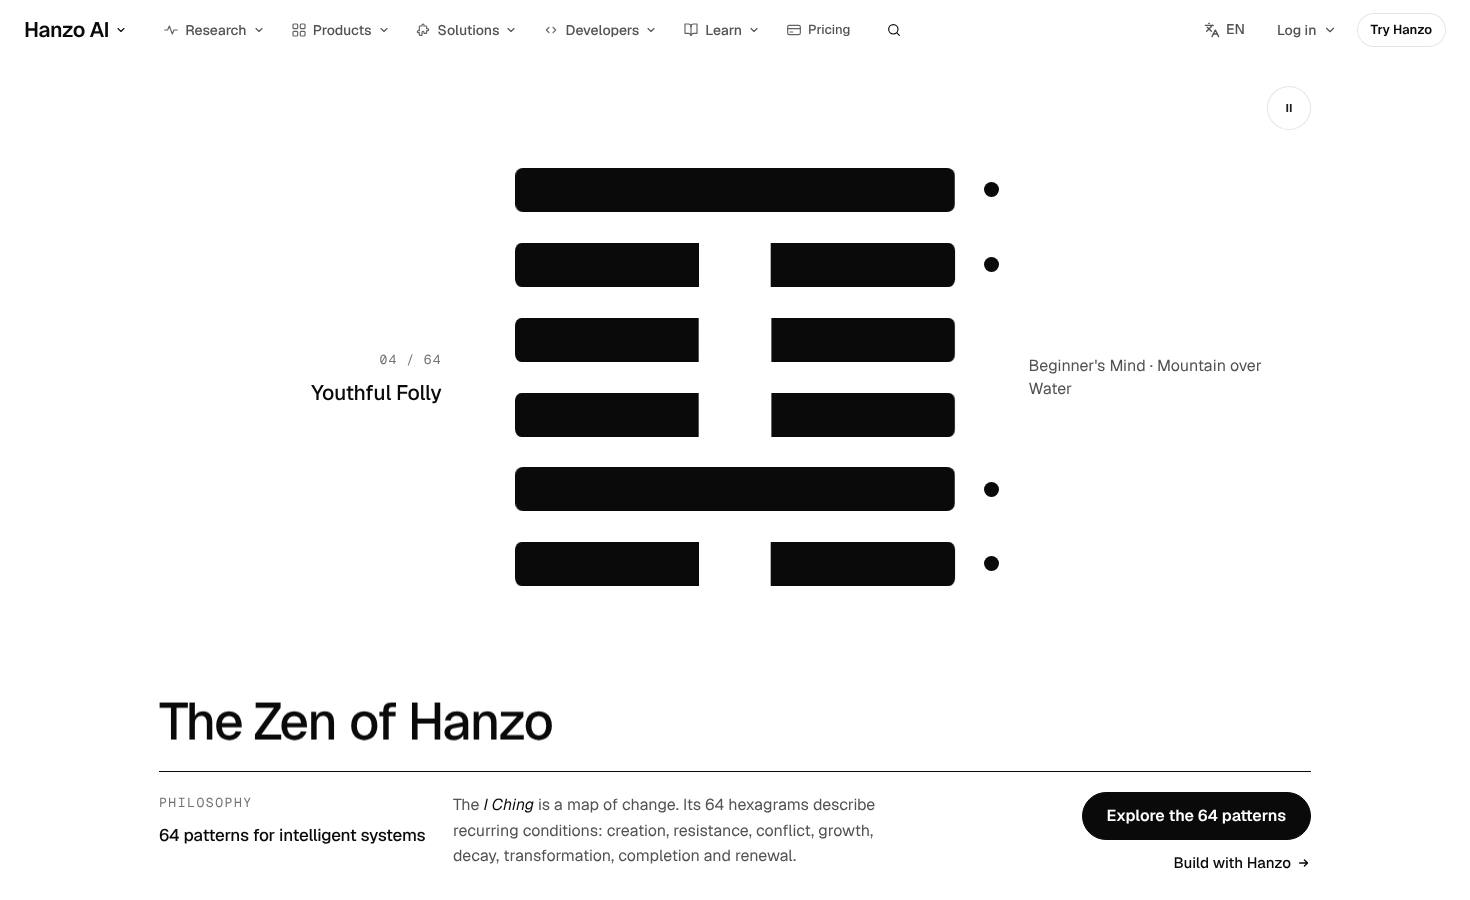
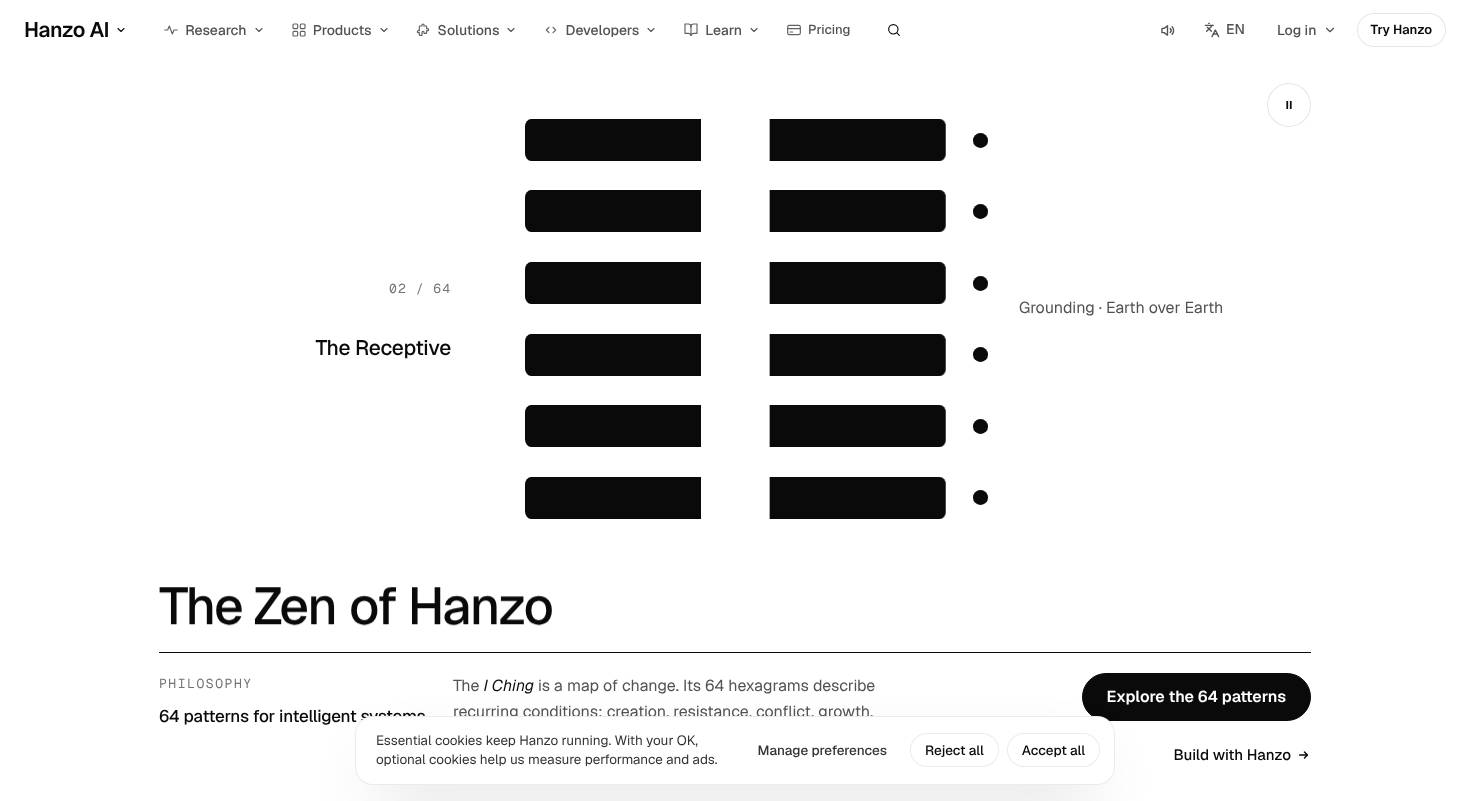
philosophy: arrival on CSS from first paint, Sequence names whole to 320px, card corrected, Ready
Claude-Session: https://claude.ai/code/session_01P5YBdwnSSVASfNEEi92hQ4

diff --git a/components/pages/Philosophy.css b/components/pages/Philosophy.css
@@ -39,6 +39,16 @@ button.xph-hl:focus-visible { outline: 2px solid var(--ink); outline-offset: 6px
 .xph-flank.l b { justify-content: flex-end; }
 .xph-flank.r span { min-height: 2.9em; }
 .xph-h1 { margin: 0; }
+/* arrival without JavaScript: the h1 cuts into its line and the hexagram draws itself bottom to top at first paint */
+@keyframes xph-cut { from { transform: translate3d(0, 105%, 0); } }
+.xph-cut { animation: xph-cut .7s cubic-bezier(.16, 1, .3, 1) calc(.15s + var(--d, 0ms)) backwards; }
+@keyframes xph-draw { from { transform: scaleX(.2); opacity: 0; } }
+.xph-oracle-hx .xph-hl { animation: xph-draw .8s cubic-bezier(.4, 0, .2, 1) backwards; }
+.xph-oracle-hx .xph-hl:nth-child(2) { animation-delay: 70ms; }
+.xph-oracle-hx .xph-hl:nth-child(3) { animation-delay: 140ms; }
+.xph-oracle-hx .xph-hl:nth-child(4) { animation-delay: 210ms; }
+.xph-oracle-hx .xph-hl:nth-child(5) { animation-delay: 280ms; }
+.xph-oracle-hx .xph-hl:nth-child(6) { animation-delay: 350ms; }
 .xph-h1 .pf-mask-l { display: inline-block; vertical-align: top; }
 .xph-h1 .pf-mask-l + .pf-mask-l { margin-left: .24em; }
 .xph-hero-foot { align-items: start; padding-top: 20px; border-top: 1px solid var(--ink); }
@@ -358,9 +368,9 @@ button.xph-hl:focus-visible { outline: 2px solid var(--ink); outline-offset: 6px
   .xph-hint { font-size: 14px; }
   .xph-grp { grid-template-columns: minmax(0, 1fr); gap: 16px; padding: 32px 0; }
   .xph-tiles { grid-template-columns: repeat(3, minmax(0, 1fr)); gap: 4px; }
-  .xph-tile { min-height: 0; gap: 6px; padding: 14px 10px 16px; background: #f5f5f5; }
+  .xph-tile { min-height: 0; gap: 6px; padding: 14px 8px 16px; background: #f5f5f5; }
   .xph-tile .xph-hx { --w: 32px !important; margin-bottom: 4px; }
-  .xph-tile-t { font-size: 14px; }
+  .xph-tile-t { font-size: 14px; letter-spacing: -.02em; }
   .xph-tile-s { display: none; }
   .xph-tile-n, .xph-grp-r { font-size: 14px; }
   .xph-mx { grid-template-columns: minmax(0, 1fr); }
@@ -390,7 +400,12 @@ button.xph-hl:focus-visible { outline: 2px solid var(--ink); outline-offset: 6px
   .xph-sheet-nav { gap: 4px; }
 }
 
+/* narrow phones: three tiles can't hold "Contemplation" or "Breakthrough" whole, so the names get two columns */
+@media (max-width: 370px) {
+  .xph-tiles { grid-template-columns: repeat(2, minmax(0, 1fr)); }
+}
+
 @media (prefers-reduced-motion: reduce) {
   .xph-hl i, .xph-law-n, .xph-law-cap, .xph-law-p, .xph-tl-rail i, .xph-tl-run, .xph-hand, .xph-stack-l a::before { transition-duration: .01s !important; }
-  .xph-one .xph-one-l i, .xph-g1 .xph-one-l i, .xph-law-row .xph-hl, .xph-hl.hot::after { animation: none !important; }
+  .xph-one .xph-one-l i, .xph-g1 .xph-one-l i, .xph-law-row .xph-hl, .xph-hl.hot::after, .xph-cut, .xph-oracle-hx .xph-hl { animation: none !important; }
 }

diff --git a/components/pages/Philosophy.jsx b/components/pages/Philosophy.jsx
@@ -18,7 +18,8 @@
    premise and the stanza only, the view pill gliding (300 ms, ease-emphasis). Idle: the hero walk (with its pause control), the premise line, the laws' last line and one lap of the method ring, each ending at rest. Pointer: lines
    part their strokes under the pointer (James's "strokes parting"), rows and tiles fill. State: the sheet rises.
    The one dark room enters as a rounded card and opens to full width (MASTER §3.1 rooms). Deck timings only: 150 ms hover, 300 ms state, 400 ms fills, 800 ms line art; no springs, no overshoot.
-   Ink only: hierarchy is alpha steps of black and white. Every word is Hanzo's. */
+   Ink only: hierarchy is alpha steps of black and white. Every word is Hanzo's.
+   V2: 8/10 slice D: the h1 cut-in and the hexagram's draw run on CSS from first paint (arrival no longer waits for hydration); Sequence names stay whole down to 320px. */
 import { useEffect, useRef, useState } from 'react';
 import { motion, useInView, useReducedMotion } from 'motion/react';
 import { A, More } from '../kit';
@@ -100,7 +101,8 @@ function Hero() {
             <span>{sub} · {h[2]} over {h[3]}</span>
           </div>
         </div>
-        <MaskLines as="h1" id="xph-h1" className="pf-display xph-h1" lines={['The Zen', 'of Hanzo']} amount={0.1} />
+        {/* the h1 cuts in on CSS from first paint, so arrival never waits for hydration (same mask and easing as MaskLines) */}
+        <h1 id="xph-h1" className="pf-display xph-h1"><span className="pf-mask-l"><span className="pf-mask-in xph-cut">The Zen</span> </span><span className="pf-mask-l"><span className="pf-mask-in xph-cut" style={{ '--d': '60ms' }}>of Hanzo</span></span></h1>
         <div className="pf-grid xph-hero-foot">
           <div className="xph-hero-a">
             <p className="pf-mono xph-cap">Philosophy</p>

diff --git a/docs/coverage/philosophy.md b/docs/coverage/philosophy.md
@@ -15,7 +15,7 @@ Tick what applies. Strike the rest as `n/a: reason`. Fill each `Done here:` line
 - [x] No dead or self-looping button; n/a: no prices on the page
 - [x] Open copy questions for James listed, none decided
 
-Done here: Story page, one audience (builders and researchers judging how Hanzo thinks), metric `philosophy.close`. One solid ask per screen; "Build with Hanzo", "Read the research" and "View the source" are text links.
+Done here: Story page, one audience (builders and researchers judging how Hanzo thinks), metric `philosophy.close`. Copy question for James: the Lenses copy says "four modern minds" but Hanzo's data has one lens (Zen, 6 patterns), so the Lenses view shows "All lensed patterns" plus one chip; copy and data left as Hanzo has them. One solid ask per screen; "Build with Hanzo", "Read the research" and "View the source" are text links.
 
 ## 2. Information architecture and navigation
 - [x] One `<main id="main">`; skip link reaches it
@@ -26,14 +26,14 @@ Done here: Story page, one audience (builders and researchers judging how Hanzo 
 Done here: `<main id="main">` takes the layout's "Skip to content"; links use the kit `A` and `More`; parity shows 10/10 links.
 
 ## 3. First impression and page narrative
-- [x] Sells in 5 s; something moves within 1 s without input (the hexagram's first change at 900 ms)
+- [x] Sells in 5 s; something moves within 1 s without input (the hexagram draws itself and the h1 cuts in on CSS from first paint; the walk's first change follows 900 ms after mount)
 - [x] Hero: the hexagram is the one big thing; h1 52px by line mask; nothing above the h1 ("Philosophy" is a caption under it)
 - [x] JS off: legible; no `opacity:0` on the LCP element
 - [x] One idea per screen; sizes alternate (one moment per screen: hexagram, premise sentence, law hexagram, belief statement)
 - [x] Ends in the dark room's closing link ("Explore Hanzo"), then the footer
 - [x] n/a: no cards to other pages beyond the stack rows (they morph through the site layer)
 
-Done here: First screen at 1470×801: centred hexagram (≈420px) walking the sixty-four, 52px headline, caption, lede and ask at its foot; JS off measured 0 of 910 text blocks hidden.
+Done here: First screen at 1470×801: centred hexagram (≈420px) walking the sixty-four, 52px headline, caption, lede and ask at its foot. Slice D: the h1 cut-in and the hexagram's bottom-to-top draw are CSS keyframes, so they run from first paint and never wait for hydration (measured on the dev server: h1 already moving on the first frame at 0.78 s, settled by 1.6 s). JS off: every word visible; only the Sequence tab panel stays hidden, and its words are in the laid-out sheet details.
 
 ## 4. Conversion system
 - [x] Kit ask (`.pf-btn.solid`) only; no raw `.x-btn`
@@ -100,7 +100,7 @@ Done here: Every object is drawn in HTML and CSS (the hexagram is 6 rows of two 
 - [x] Every target 44px or more; tiles and rows answer taps
 - [x] Primary ask above the fold at 375 (moved above the lede)
 
-Done here: Phone hero: a 150px hexagram whose lines sit in 44px tap pads, h1 at 40px, the ask before the lede; the laws timeline sets a 104px hexagram beside its caption, the law below, and the strip at full width with 44px number stops (drag with a finger). Nothing overlaps at 375 (the old closed-sheet overlap is gone; scrollWidth 375). The patterns open on the Matrix view (one 8×8 object) instead of eight rows of tiles; tile titles wrap instead of colliding at 1470.
+Done here: Phone hero: a 150px hexagram whose lines sit in 44px tap pads, h1 at 40px, the ask before the lede; the laws timeline sets a 104px hexagram beside its caption, the law below, and the strip at full width with 44px number stops (drag with a finger). Nothing overlaps at 375 (the old closed-sheet overlap is gone; scrollWidth 375). The patterns open on the Matrix view (one 8×8 object) instead of eight rows of tiles; tile titles never break inside a word: measured with a Range per word at 1470, 1200, 900, 375 and 320 (six a row from 900, four below 1200, three on phones with 8px tile padding, two below 370px).
 
 ## 12. Accessibility (WCAG 2.2 AA)
 - [x] Text #0a0a0a / #525252 / #737373 on white, #525252 on #f5f5f5
@@ -149,7 +149,7 @@ Done here: n/a: no code, terminal or config on /philosophy.
 - [x] n/a: no form
 - [x] JS off: a `<noscript>` rule lays out all views and all 64 patterns; reduced motion shows final states
 
-Done here: JS off measured 0 hidden blocks at 1470; the sheet wraps 64 → 01; nothing on the page fetches.
+Done here: JS off: all words visible at 1470 (the Sequence view's panel is hidden, but each of its 64 entries is laid out in full in the sheet details); the sheet wraps 64 → 01; nothing on the page fetches.
 
 ## 18. Measurement and handover
 - [x] `data-cta` on both primaries (`philosophy.hero`, `philosophy.close`); n/a: `lib/track.js` wiring is shared

diff --git a/docs/review/philosophy.md b/docs/review/philosophy.md
@@ -1,4 +1,5 @@
 # /philosophy — James-eye review
+Ready: 2026-11-07, slice D — arrival on CSS from first paint (h1 cut-in + hexagram draw, no hydration wait), Sequence tile names whole at 1470/1200/900/375/320, card parts 1/3/11/17 corrected; dead screens, tile breaks and the last-third big trigram were fixed in 9f011438/f687922c.
 
 Verdict: 7/10
 First complaint: "It's much better, the panel's gone and nothing jumps. But I scroll and there are whole screens of nothing. 'Five operating laws' sits on its own on a blank screen, then the questions have half the screen empty. And in the list of 64 the names are snapped in half: 'The Receptiv / e', 'Beginnin / g'. That looks broken."
